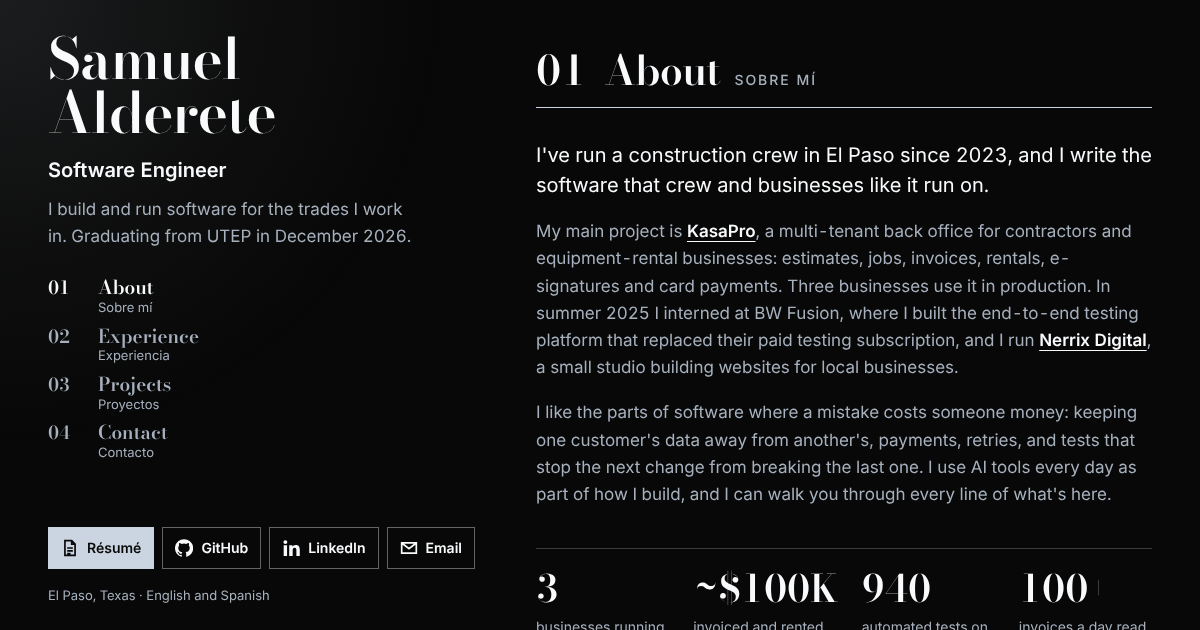
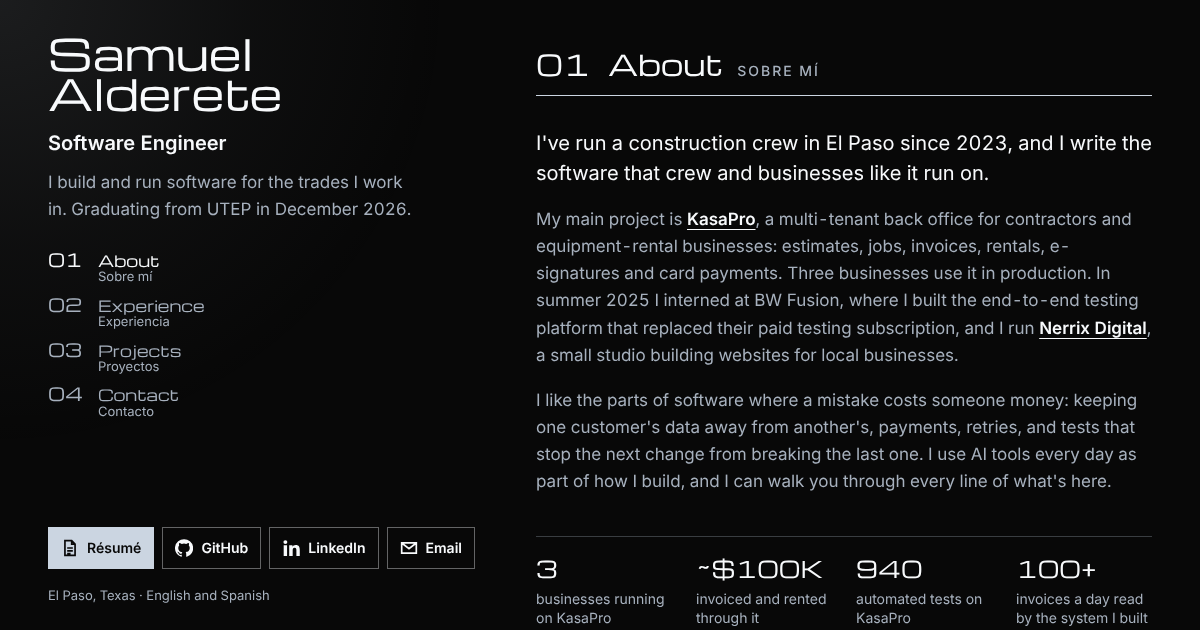
Michroma for the display type
At the owner's pick from five design-library fonts, Michroma (the library's
free stand-in for the wide techno faces Yapari, Nexed and Corgan; SIL OFL)
replaces Bodoni Moda for everything that names: the owner, the directory,
the aisle signs, the price figures, the was/now line, the bin heading and
the loader's greetings. Inter stays the reading font.

- Michroma comes in one weight, so every display rule now asks for 400 and
  nothing is synthesised bold; the negative tracking that suited Bodoni
  goes to 0.
- It is a wide face, so the sizes come down to fit the same columns: the
  name, the sign headline, the price figures, the directory labels, the
  was/now figure, the bin heading, the loader words, and the short-laptop
  and phone variants.
- Self-hosted at assets/fonts/michroma-latin.woff2, preloaded on the home
  page, the inventory and the 404; Bodoni's file goes.
- The favicon's SA is now Michroma's own outlines (a browser can't load a
  web font inside a favicon), and the social preview is taken again.

Checked in Chromium at 1440 by night and by day, 1280x720, a 390 phone,
the loader, the inventory and the 404: Michroma loaded and at 400 on every
display element, nothing past its column, no overflow, no script errors.

Claude-Session: https://claude.ai/code/session_01XHCncP8DXRXQgkaauUpUBx

diff --git a/styles.css b/styles.css
@@ -1,11 +1,12 @@
 /* Samuel Alderete · portfolio. The page is a well-run bilingual aisle:
    a pinned directory, an overhead sign per aisle, shelf tags, price labels. */
 
-/* Bodoni Moda (display) and Inter (text), both SIL OFL 1.1, latin subsets, self-hosted */
+/* Michroma (display) and Inter (text), both SIL OFL 1.1, latin subsets, self-hosted. Michroma comes in one
+   weight, so every display rule asks for 400 and nothing is ever synthesised bold. */
 @font-face {
-  font-family: "Bodoni Moda";
-  src: url("assets/fonts/bodoni-moda-latin.woff2") format("woff2");
-  font-weight: 400 900;
+  font-family: "Michroma";
+  src: url("assets/fonts/michroma-latin.woff2") format("woff2");
+  font-weight: 400;
   font-style: normal;
   font-display: swap;
 }
@@ -36,7 +37,7 @@
   --lamp: rgba(255, 255, 255, 0.9);   /* the work light on the frost ground */
 
   --sans: "Inter", ui-sans-serif, system-ui, -apple-system, "Segoe UI", sans-serif;
-  --display: "Bodoni Moda", "Didot", "Bodoni 72", Georgia, serif;
+  --display: "Michroma", ui-sans-serif, system-ui, sans-serif;
   --gutter: clamp(16px, 4vw, 48px);
   --ease-out: cubic-bezier(0.23, 1, 0.32, 1);
   --ease-in-out: cubic-bezier(0.77, 0, 0.175, 1);
@@ -49,8 +50,8 @@
   --t-small: 0.875rem;      /* 14px */
   --t-tiny: 0.8125rem;      /* 13px */
   --t-lead: 1.25rem;
-  --t-sign: clamp(1.75rem, 1.2rem + 1.8vw, 2.75rem);
-  --t-name: clamp(2.75rem, 2rem + 3.4vw, 4.75rem);
+  --t-sign: clamp(1.25rem, 0.95rem + 1.1vw, 1.9rem);
+  --t-name: clamp(2.1rem, 1.5rem + 2.2vw, 3.3rem);
 
   color-scheme: light;
 }
@@ -121,9 +122,9 @@ html { scrollbar-color: var(--muted) var(--ground); }
   margin: 0;
   font-family: var(--display);
   font-size: var(--t-name);
-  font-weight: 600;
+  font-weight: 400;
   line-height: 0.95;
-  letter-spacing: -0.015em;
+  letter-spacing: 0;
 }
 .role { margin: 14px 0 0; font-size: var(--t-lead); font-weight: 600; }
 .line { margin: 10px 0 0; max-width: 34ch; color: var(--muted); }
@@ -136,11 +137,11 @@ html { scrollbar-color: var(--muted) var(--ground); }
 }
 .aisle-no {
   color: var(--muted);              /* part of the link's text, so it keeps full text contrast */
-  font-family: var(--display); font-weight: 600; font-size: 1.125rem; line-height: 1;
+  font-family: var(--display); font-weight: 400; font-size: 1.125rem; line-height: 1;
   transition: color 200ms var(--ease-out);
 }
 .aisle-label { display: flex; flex-direction: column; line-height: 1.2; }
-.aisle-label b { font-family: var(--display); font-weight: 600; font-size: 1.1875rem; color: var(--muted); transition: color 200ms var(--ease-out); }
+.aisle-label b { font-family: var(--display); font-weight: 400; font-size: 0.95rem; color: var(--muted); transition: color 200ms var(--ease-out); }
 .aisle-label span { font-size: var(--t-tiny); }
 .aisles a[aria-current="true"] .aisle-no, .aisles a[aria-current="true"] .aisle-label b { color: var(--ink); }
 @media (hover: hover) and (pointer: fine) {
@@ -178,11 +179,11 @@ html { scrollbar-color: var(--muted) var(--ground); }
 }
 .sign-no {
   flex: none; color: var(--unlit);
-  font-family: var(--display); font-weight: 600; font-size: var(--t-sign); line-height: 1;
+  font-family: var(--display); font-weight: 400; font-size: var(--t-sign); line-height: 1;
   transition: color 240ms var(--ease-out);
 }
 .sign h2, .sign-h { margin: 0; font-size: var(--t-sign); line-height: 1; display: flex; flex-wrap: wrap; align-items: baseline; column-gap: 14px; row-gap: 4px; }
-.sign h2 b, .sign-h b { font-family: var(--display); font-size: var(--t-sign); font-weight: 600; letter-spacing: -0.01em; }
+.sign h2 b, .sign-h b { font-family: var(--display); font-size: var(--t-sign); font-weight: 400; letter-spacing: 0; }
 .sign h2 span, .sign-h span { font-family: var(--sans); font-size: 0.875rem; font-weight: 500; text-transform: uppercase; letter-spacing: 0.14em; color: var(--sign-muted); }
 .aisle.is-here .sign, .article .sign { border-bottom-color: var(--accent); }
 .aisle.is-here .sign-no, .article .sign-no { color: var(--ink); }
@@ -205,7 +206,7 @@ html { scrollbar-color: var(--muted) var(--ground); }
 }
 .price {
   display: block; margin: 0 0 8px; white-space: nowrap;
-  font-family: var(--display); font-weight: 600; font-size: clamp(1.75rem, 1.3rem + 1.4vw, 2.5rem); line-height: 1.05;
+  font-family: var(--display); font-weight: 400; font-size: clamp(1.1rem, 0.9rem + 0.7vw, 1.45rem); line-height: 1.05;
 }
 .channel p { margin: 0; font-size: var(--t-small); line-height: 1.4; color: var(--muted); }
 @media (max-width: 640px) { .channel { grid-template-columns: 1fr 1fr; } }
@@ -234,7 +235,7 @@ a.tag:active { transform: scale(0.995); }
 /* was / now: the paid subscription struck through, then what replaced it */
 .tag p.was { display: flex; flex-wrap: wrap; align-items: baseline; gap: 2px 10px; margin: 14px 0 0; font-size: var(--t-small); font-weight: 600; color: var(--muted); }
 .was s { font-weight: 500; text-decoration-thickness: 1px; }
-.was b { font-family: var(--display); font-weight: 600; font-size: 1.125rem; color: var(--ink); }
+.was b { font-family: var(--display); font-weight: 400; font-size: 0.95rem; color: var(--ink); }
 
 .more-link { display: inline-flex; align-items: center; gap: 6px; margin-top: 28px; font-weight: 700; text-decoration: none; border-bottom: 2px solid var(--accent); padding-bottom: 2px; transition: border-color 160ms var(--ease-out); }
 @media (hover: hover) and (pointer: fine) { .more-link:hover { border-bottom-color: var(--ink); } .more-link:hover .go { transform: translate(2px, -2px); } }
@@ -270,7 +271,7 @@ a.product:active { transform: scale(0.995); }
 .bin span { color: var(--muted); font-size: var(--t-small); }
 .bin em { font-style: normal; font-size: var(--t-tiny); font-weight: 600; color: var(--muted); text-transform: uppercase; letter-spacing: 0.06em; grid-column: 2; grid-row: 1; }
 @media (hover: hover) and (pointer: fine) { .bin a:hover b { text-decoration: underline; text-underline-offset: 0.2em; } }
-.bin-h { margin: 52px 0 0; font-family: var(--display); font-size: 1.5rem; font-weight: 600; }
+.bin-h { margin: 52px 0 0; font-family: var(--display); font-size: 1.15rem; font-weight: 400; }
 
 /* ---------- checkout ---------- */
 .checkout p { max-width: 52ch; }
@@ -300,7 +301,7 @@ a.product:active { transform: scale(0.995); }
 /* short laptop screens: keep the whole directory reachable while pinned */
 @media (min-width: 1024px) and (max-height: 820px) {
   .directory { overflow-y: auto; padding-top: 32px; padding-bottom: 24px; scrollbar-width: thin; }
-  .name { font-size: clamp(2.5rem, 1.6rem + 2.6vw, 3.75rem); }
+  .name { font-size: clamp(1.9rem, 1.3rem + 1.8vw, 2.8rem); }
   .aisles { margin-top: 22px; }
   .aisles a { padding: 5px 0; }
   .links { padding-top: 18px; }
@@ -313,7 +314,7 @@ a.product:active { transform: scale(0.995); }
   .aisles a { display: inline-flex; align-items: center; gap: 8px; padding: 0; min-height: 44px; }
   .aisles .aisle-no { font-size: 1rem; }
   .aisles .aisle-label span { display: none; }
-  .aisles .aisle-label b { font-size: 0.9375rem; }
+  .aisles .aisle-label b { font-size: 0.8125rem; }
 }
 
 /* phones: the date sits under the title, never above it as a kicker */
@@ -451,9 +452,9 @@ html.opening.opened .store { animation: drift-in 900ms var(--ease-out) 60ms both
 .shutter-words > span {
   grid-area: 1 / 1; opacity: 0;
   display: flex; align-items: baseline; gap: 18px; white-space: nowrap;
-  font: 600 clamp(3rem, 1.8rem + 4.5vw, 6rem)/1.15 var(--display); letter-spacing: -0.015em;
+  font: 400 clamp(2rem, 1.2rem + 2.6vw, 3.6rem)/1.15 var(--display); letter-spacing: 0;
 }
-.shutter-words b { font-weight: 600; }
+.shutter-words b { font-weight: 400; }
 .shutter-words i {
   font: 500 clamp(0.8125rem, 0.72rem + 0.3vw, 1rem)/1 var(--sans); font-style: normal;
   text-transform: uppercase; letter-spacing: 0.14em; color: var(--shutter-muted);

diff --git a/inventory.html b/inventory.html
@@ -7,7 +7,7 @@
 <meta name="description" content="Everything Samuel Alderete has built or shipped, on one list: what it is, where he made it, what it is built with and where to see it.">
 <meta name="theme-color" media="(prefers-color-scheme: light)" content="#edf1f5">
 <meta name="theme-color" media="(prefers-color-scheme: dark)" content="#080808">
-<link rel="preload" href="assets/fonts/bodoni-moda-latin.woff2" as="font" type="font/woff2" crossorigin>
+<link rel="preload" href="assets/fonts/michroma-latin.woff2" as="font" type="font/woff2" crossorigin>
 <link rel="stylesheet" href="styles.css">
 <link rel="icon" href="assets/favicon.svg" type="image/svg+xml">
 </head>

diff --git a/index.html b/index.html
@@ -14,7 +14,7 @@
 <meta name="twitter:card" content="summary_large_image">
 <meta name="theme-color" media="(prefers-color-scheme: light)" content="#edf1f5">
 <meta name="theme-color" media="(prefers-color-scheme: dark)" content="#080808">
-<link rel="preload" href="assets/fonts/bodoni-moda-latin.woff2" as="font" type="font/woff2" crossorigin>
+<link rel="preload" href="assets/fonts/michroma-latin.woff2" as="font" type="font/woff2" crossorigin>
 <link rel="stylesheet" href="styles.css">
 <link rel="icon" href="assets/favicon.svg" type="image/svg+xml">
 <script>

diff --git a/404.html b/404.html
@@ -5,7 +5,7 @@
 <meta name="viewport" content="width=device-width, initial-scale=1">
 <title>Not on the shelf · Samuel Alderete</title>
 <base href="/SamuelAlderete/">
-<link rel="preload" href="assets/fonts/bodoni-moda-latin.woff2" as="font" type="font/woff2" crossorigin>
+<link rel="preload" href="assets/fonts/michroma-latin.woff2" as="font" type="font/woff2" crossorigin>
 <link rel="stylesheet" href="styles.css">
 <link rel="icon" href="assets/favicon.svg" type="image/svg+xml">
 </head>

diff --git a/README.md b/README.md
@@ -29,4 +29,4 @@ The phone number is only on the PDF. The page leaves it out, and shows the `phon
 
 ## Fonts
 
-Bodoni Moda for headings and Inter for text on the site, and Computer Modern Serif on the résumé. All three are under the SIL Open Font License 1.1 and self-hosted in `assets/fonts/`. The palette is Chrome (Future Black, Graphite, Chrome Silver and Frost White, with no hue) from the Nerrix design library, at night as the library draws it and by day on a frost ground.
+Michroma for headings and Inter for text on the site, and Computer Modern Serif on the résumé. All three are under the SIL Open Font License 1.1 and self-hosted in `assets/fonts/`. The palette is Chrome (Future Black, Graphite, Chrome Silver and Frost White, with no hue) from the Nerrix design library, at night as the library draws it and by day on a frost ground.
